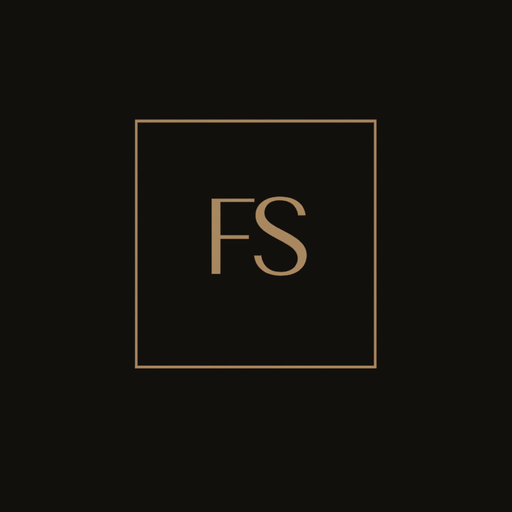
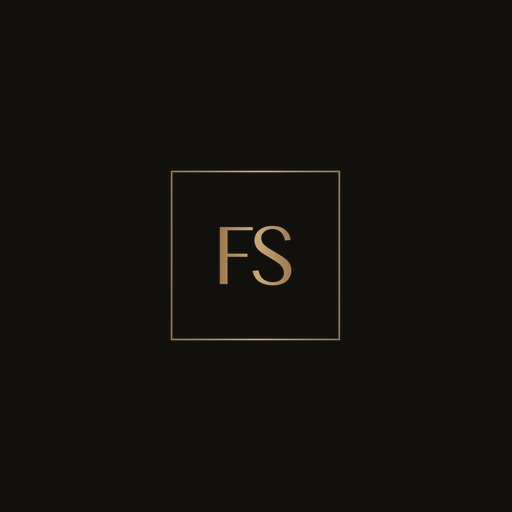
Add AI-generated hero background and refresh brand mark/lockup
- New moody dusk skyline image behind the hero (gpt-image-1), layered
  under the existing brass line-art skyline and dark gradient overlay
- Swapped in higher-quality gradient-gold FS mark and lockup
- Regenerated favicon and Apple touch icon from the new mark

diff --git a/src/components/Hero.tsx b/src/components/Hero.tsx
@@ -22,6 +22,24 @@ export default function Hero() {
       id="top"
       className="relative flex min-h-dvh items-center overflow-hidden pt-28 pb-20"
     >
+      {/* Generated atmosphere shot — dusk over the North Shore, dimmed hard
+          so it reads as depth behind the brass skyline, never competes with
+          it. Deliberately the back-most layer; everything else paints on
+          top of it. */}
+      <div
+        aria-hidden="true"
+        className="pointer-events-none absolute inset-0 -z-30 bg-cover bg-[center_70%] opacity-90"
+        style={{ backgroundImage: "url(/brand/hero-skyline.jpg)" }}
+      />
+      <div
+        aria-hidden="true"
+        className="pointer-events-none absolute inset-0 -z-30"
+        style={{
+          background:
+            "linear-gradient(to bottom, rgba(18,16,13,0.55) 0%, rgba(18,16,13,0.35) 35%, rgba(18,16,13,0.75) 75%, rgba(18,16,13,0.96) 100%)",
+        }}
+      />
+
       {/* Brass glow bleeding out of the top-right — pure CSS, no image
           weight, no layout cost. Low alpha so it reads as depth, not colour. */}
       <div
